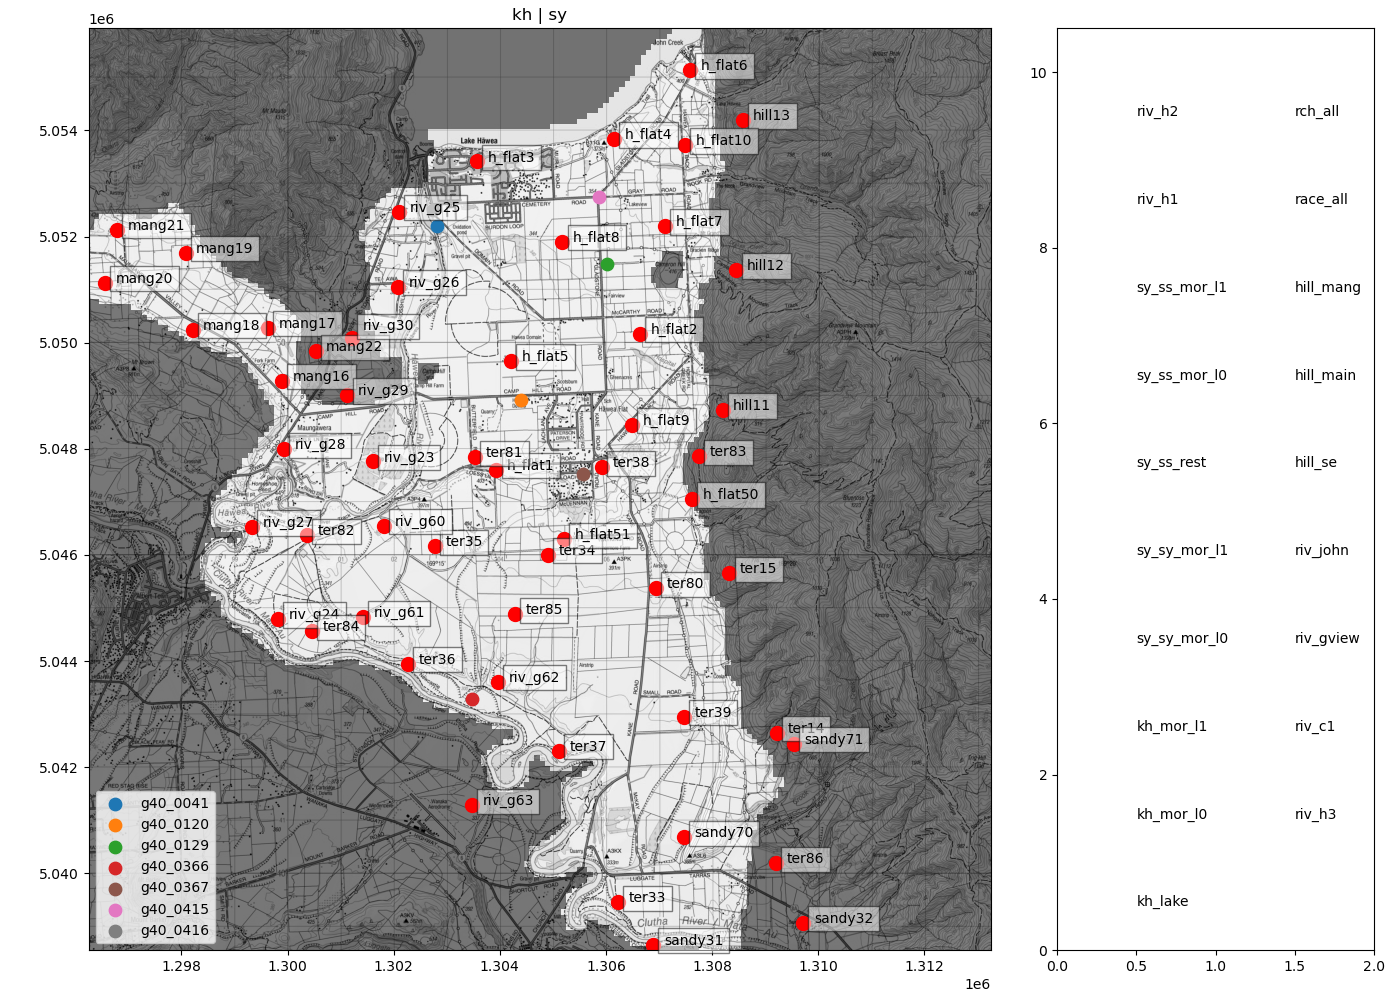
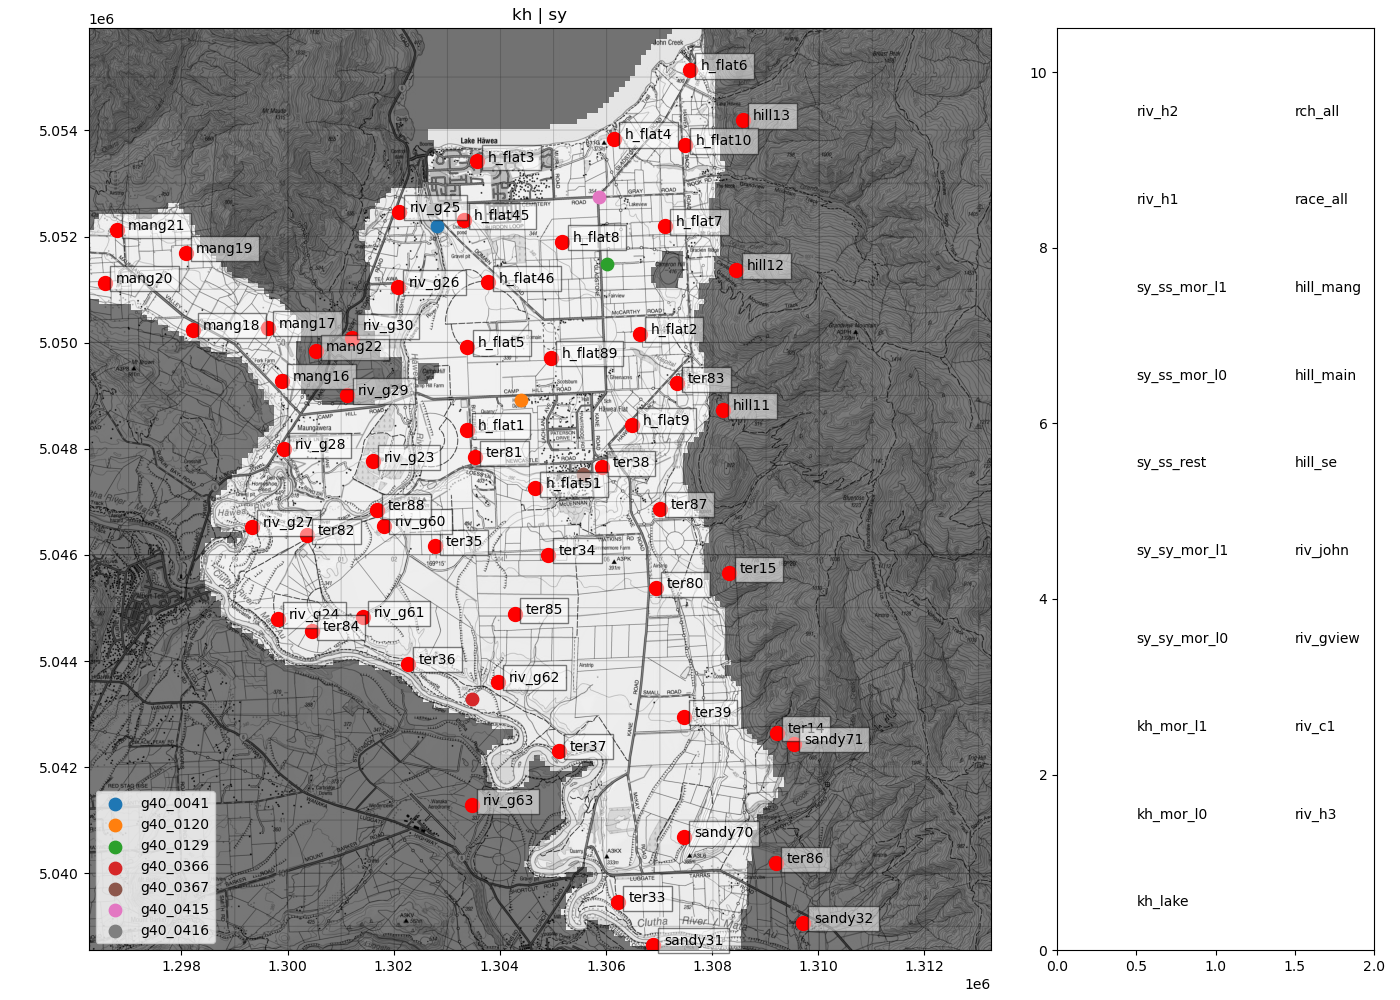
setup 3d_v1a run

diff --git a/model_build/supporting_data_analysis/get_pumping_data.py b/model_build/supporting_data_analysis/get_pumping_data.py
@@ -10,7 +10,7 @@ from model_build.utils import select_resample, get_colors
 from model_build.supporting_data_analysis.map_flowmeter_to_wells import get_well_flowmeter_mapper
 from model_build.zones import get_model_zones
 from model_build.project_model_tools import exclude_near_river_pumping, get_low_cond_array, get_lake_array, \
-    get_2d_moraine
+    get_2d_moraine, smt
 
 default_recalc = False
 
@@ -71,6 +71,18 @@ def get_historical_pumping_data(start_date, end_date, frequency='D', recalc=Fals
     return select_resample(outdata, start_date, end_date, frequency, func=func)
 
 
+def get_pump_to_l1(recalc=False):
+    save_path = processed_model_build_data_dir.joinpath('pump_mover.txt')
+    if save_path.exists() and not recalc:
+        out = np.loadtxt(save_path).astype(int) == 1
+    else:
+        out = np.isfinite(
+            smt.io.shape_file_to_model_array(base_model_build_data_dir.joinpath('pump_to_layer_2.shp'), 'id',
+                                             alltouched=True))
+        np.savetxt(save_path, out.astype(int), '%d')
+    return out
+
+
 def get_pumping_locs(return_raw=False):
     data = get_well_flowmeter_mapper()
     idx = get_low_cond_array()
@@ -87,6 +99,10 @@ def get_pumping_locs(return_raw=False):
     zones = get_model_zones()
     for k, v in zones.items():
         data.loc[:, k] = v[data.i, data.j]
+
+    # move hawea flat bores to layer 1 so that they cannot go dry (reduce model instability)
+    idx = get_pump_to_l1()[data.i, data.j] & (data.k == 0)
+    data.loc[idx, 'k'] = 1
     if return_raw:
         return data
     if exclude_near_river_pumping:
@@ -176,8 +192,8 @@ def data_checks():
 
 
 if __name__ == '__main__':
+    locs = get_pumping_locs()
     get_model_zones(True)
     data_checks()
     flow_mapper = get_well_flowmeter_mapper(recalc=True)
-    locs = get_pumping_locs()
     flow = get_historical_pumping_data(None, None, recalc=True)

diff --git a/optimisation/a_build_run_optimisation_version.py b/optimisation/a_build_run_optimisation_version.py
@@ -131,20 +131,16 @@ def build_test_model(model_ws, notes, start_param_vals=None, recalc=True):
 #  The pest optimisation will be run in unbacked_dir.joinpath(mversion,'optimisation')
 #  dont forget to update the git branch on tuke
 # make a new branch on major structural shifts
-mversion = 'init_3d_v1'
-previous_mversion = 'init_v12'
-branch = '3d_v1'
-previous_branch = 'structure_v12'
+mversion = 'init_3d_v1a'
+previous_mversion = 'init_3d_v1'
+branch = '3d_v1a'
+previous_branch = '3d_v1'
 # todo to use previous parameters, put file here, else None
 param_file = None
 notes = f""" 
-* move to 3d structure (near lake)
-* remove the slope fixer on the east side
-* remove additional parameterization of v12
-* Address the 3d moraine issues in structure
-* 3 layers the bottom two pinch out against the bottom of the model.
-* Add abrupt parameter change at terrace interface
-* Remove from dam to “dam control” road from model (e.g. no flow)
+* extend the terrace to encompas the hawea flat moraine
+* add some additional pilot points
+* set hawea flat puming wells to layer 1 (confined) to minimise the wetting and drying instability with these wells.
 
 
 """

diff --git a/model_parameterisation/pilot_points.py b/model_parameterisation/pilot_points.py
@@ -52,8 +52,8 @@ def get_pilot_point_locations(recalc=False):
         outdata.loc[:, 'name'] = outdata.group.astype(str) + outdata.id.astype(str)
         outdata.set_index('name', inplace=True)
         outdata.to_csv(processed_path)
-    # keynote remove v12 parameterisation
-    outdata = outdata.drop(['h_flat40', 'h_flat41', 'h_flat42', 'h_flat43', 'h_flat44', 'h_flat45', 'h_flat46'])
+    # keynote remove some v12 parameterisation
+    outdata = outdata.drop(['h_flat40', 'h_flat41', 'h_flat42', 'h_flat43', 'h_flat44'])
 
     return outdata
 
